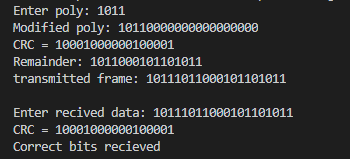
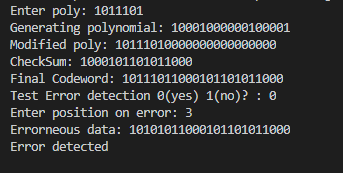
9

diff --git a/CN/Experiment9/CRC.java b/CN/Experiment9/CRC.java
@@ -13,6 +13,8 @@ public class CRC{
         System.out.print("Enter poly: ");
         code=in.nextLine();
 
+        System.out.println("Generating polynomial: 10001000000100001");
+
         n=code.length();
         copy=code;
         code+=zero;
@@ -21,27 +23,44 @@ public class CRC{
 
         code=ob.divide(code);
 
-        System.out.println("Remainder: "+code.substring(n));
+        System.out.println("CheckSum: "+code.substring(n));
 
         copy=copy.substring(0,n)+code.substring(n);
 
-        System.out.println("transmitted frame: "+copy);
+        System.out.println("Final Codeword: "+copy);
 
-        System.out.print("\nEnter recived data: ");
-        rec=in.nextLine();
+        // System.out.print("\nEnter recived data: ");
+        // rec=in.nextLine();
 
-        if(zero.equals(ob.divide(rec).substring(n)))
-            System.out.println("Correct bits recieved");
-        else
-            System.out.println("Recieved frame contains one or more errors");
+        // if(zero.equals(ob.divide(rec).substring(n)))
+        //     System.out.println("Correct bits recieved");
+        // else
+        //     System.out.println("Recieved frame contains one or more errors");
+
+        System.out.print("Test Error detection 0(yes) 1(no)? : ");
+        int choice = in.nextInt();
+
+        if(choice == 0){
+            System.out.print("Enter position on error: ");
+            int errorPos = in.nextInt();
+
+            if(copy.charAt(errorPos) == '1')
+                copy = copy.substring(0,errorPos) + "0" + copy.substring(errorPos+1);
+            else 
+                copy = copy.substring(0,errorPos) + "1" + copy.substring(errorPos+1);
+
+            System.out.println("Errorneous data: "+copy);
+
+            System.out.println("Error detected");
+        }
+        else 
+            System.out.println("No Error detection");
     }  
 
     public String divide(String s){
         int i,j;
         char x;
         String div="10001000000100001";
-
-        System.out.println("CRC = "+div);
 
         for(i=0;i<n;i++){
             x=s.charAt(i);
